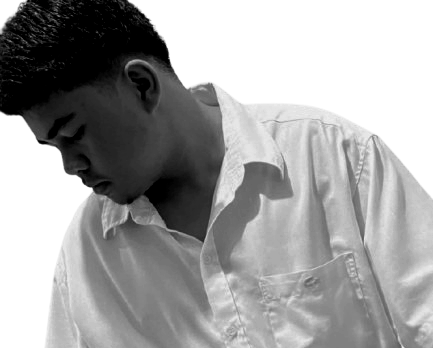
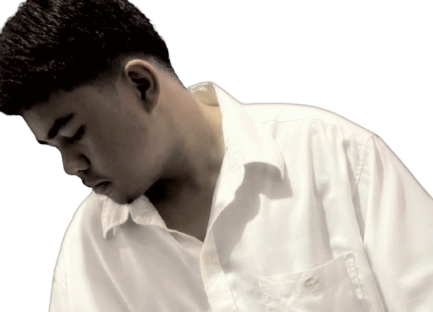
Added Something?

diff --git a/assets/css/styles.css b/assets/css/styles.css
@@ -30,7 +30,7 @@ section {
     backdrop-filter: blur(10px); /* Apply blur effect */
     box-shadow: 0 0 0 0.2px #DAC5A7; /* Simulated border effect */
     z-index: 1000; /* Ensure it's above other content */
-    border-radius: 5px; /* Optional: for rounded corners */
+    padding: 10px 60px 10px 60px;
 }
 
 nav {
@@ -68,7 +68,6 @@ nav {
     background: #DAC5A7; /* Button background color */
     color: #1D1E1F; /* Button font color */
     padding: 10px 20px; /* Button padding */
-    border-radius: 5px; /* Rounded corners */
     text-decoration: none; /* Remove underline */
     transition: background 0.3s; /* Transition for hover */
 }
@@ -131,7 +130,7 @@ nav {
 }
 
 .hero-image {
-    width: 55%; /* Image takes 35% of the width */
+    width: 60%; /* Image takes 35% of the width */
     margin: 0 auto; /* Center the image */
 }
 

diff --git a/index.html b/index.html
@@ -4,10 +4,10 @@
     <meta charset="UTF-8">
     <meta name="viewport" content="width=device-width, initial-scale=1.0">
     <title>Arvin - Portfolio</title>
+    <link rel="icon" href="./assets/images/logo.png" type="image/png"> 
     <link rel="stylesheet" href="./assets/css/styles.css">
     <link rel="stylesheet" href="https://cdnjs.cloudflare.com/ajax/libs/font-awesome/6.0.0-beta3/css/all.min.css">
     <link href="https://fonts.googleapis.com/css2?family=Lora:wght@400&family=Playfair+Display:wght@400&family=Montserrat:wght@300&family=Raleway:wght@300&family=Bodoni+Moda:wght@400&display=swap" rel="stylesheet">
-
 </head>
 <body>
     <!-- Nav Section -->
